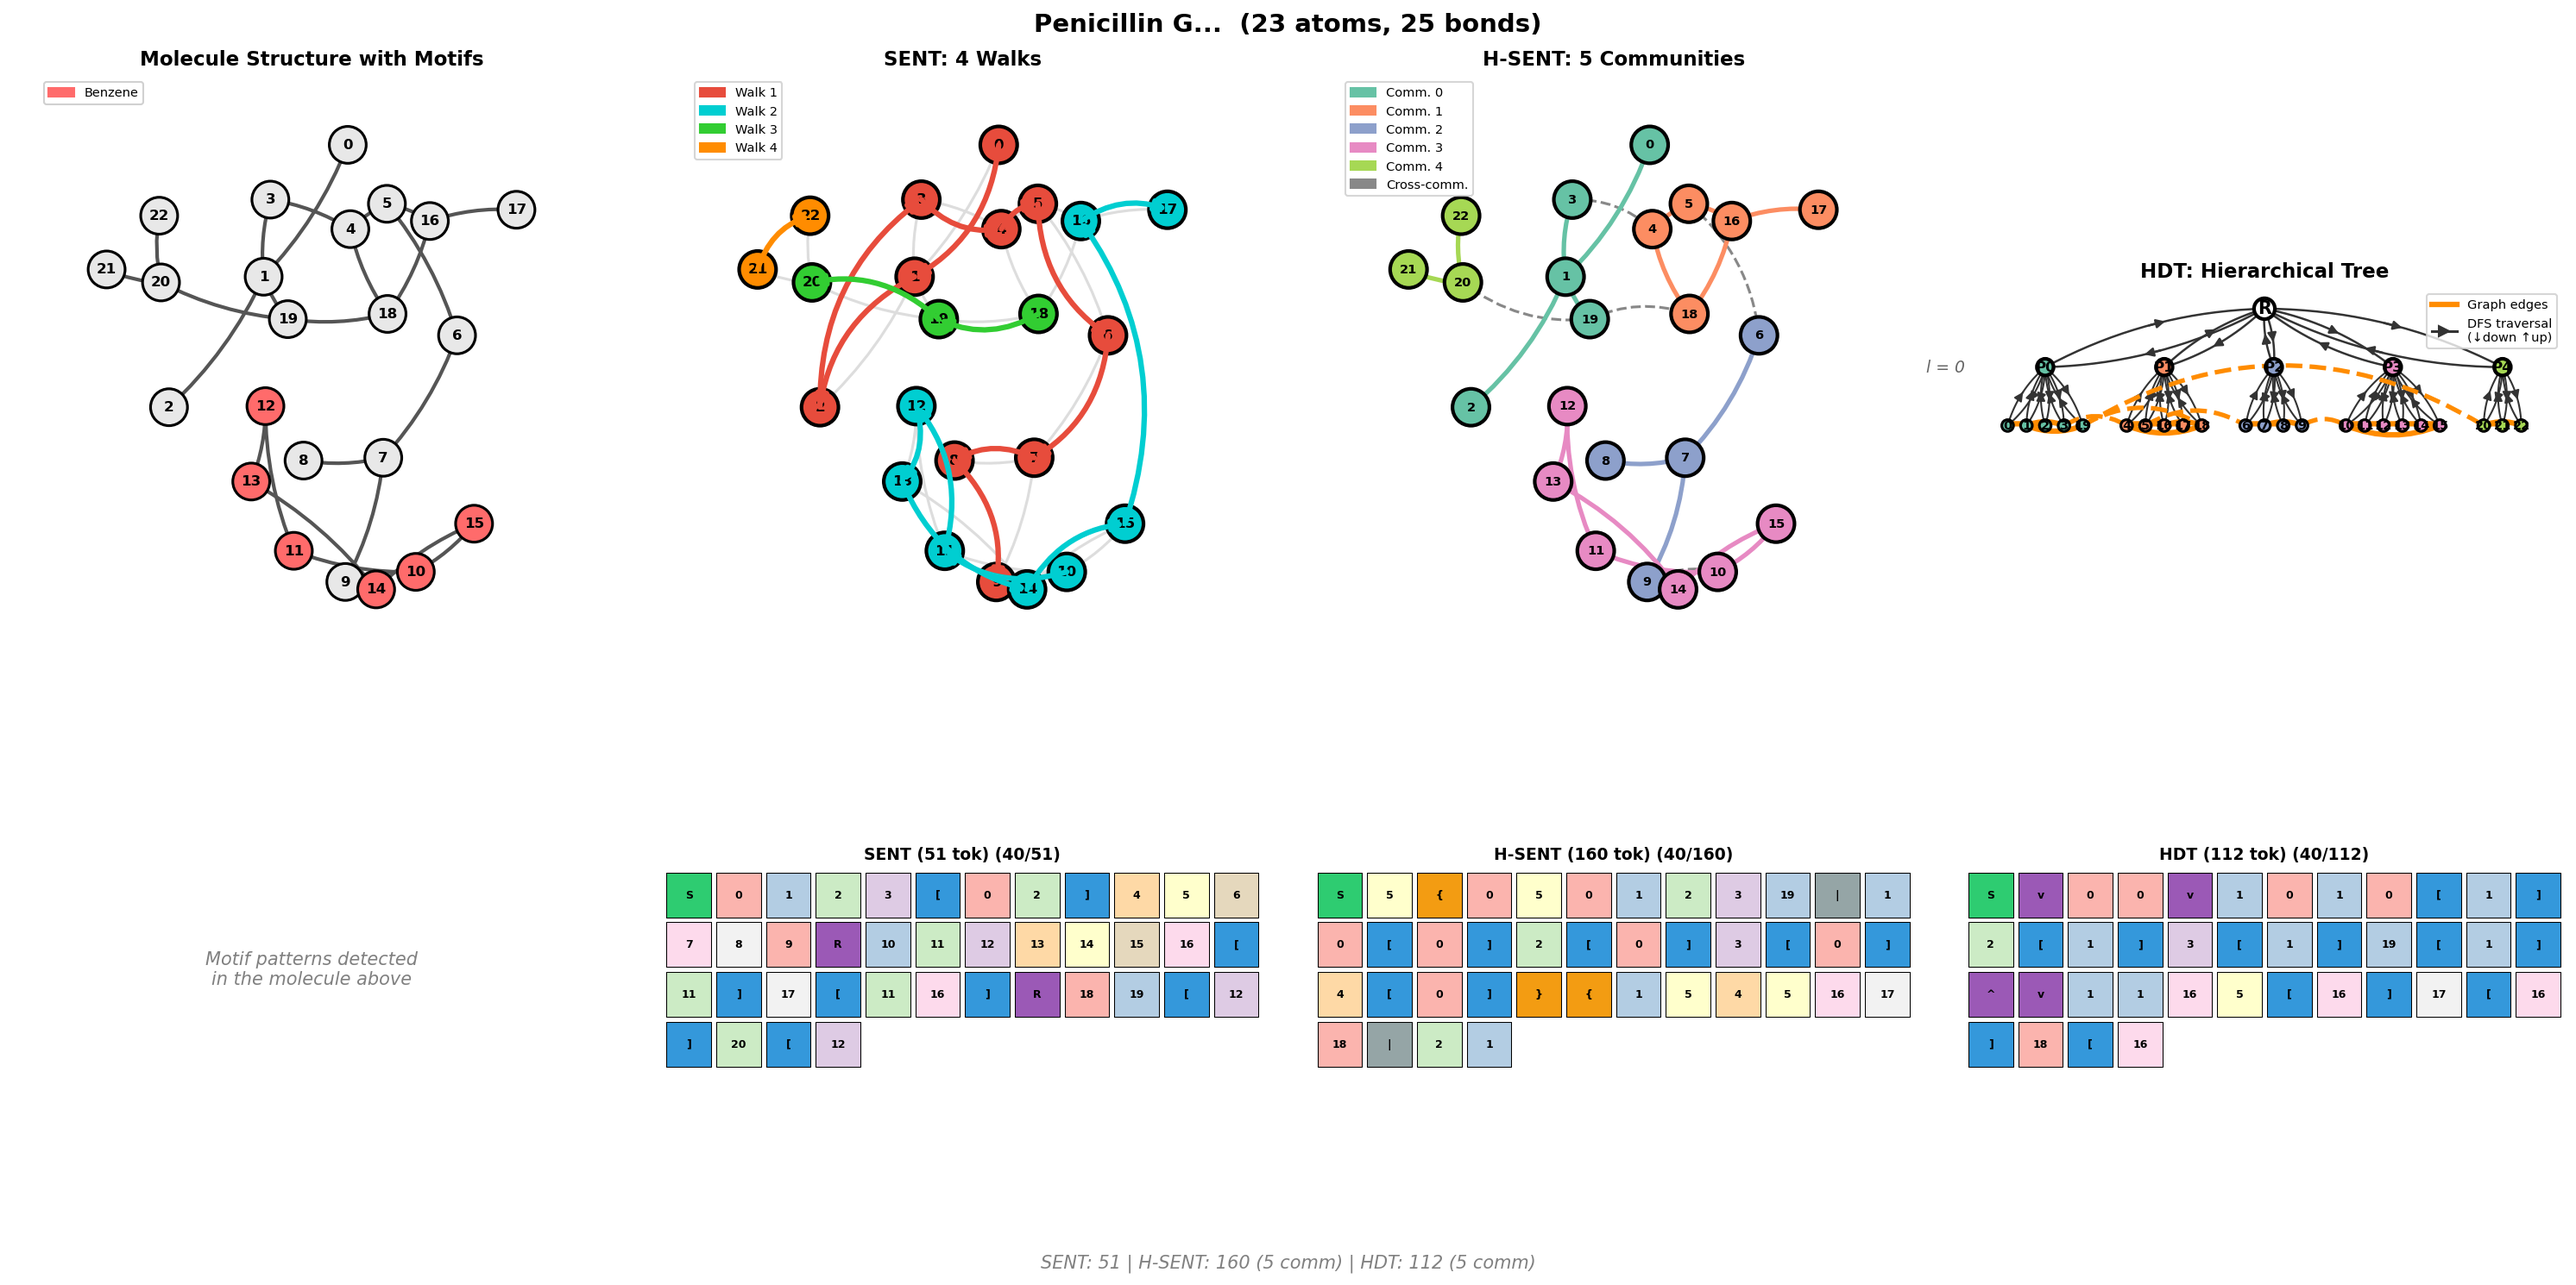
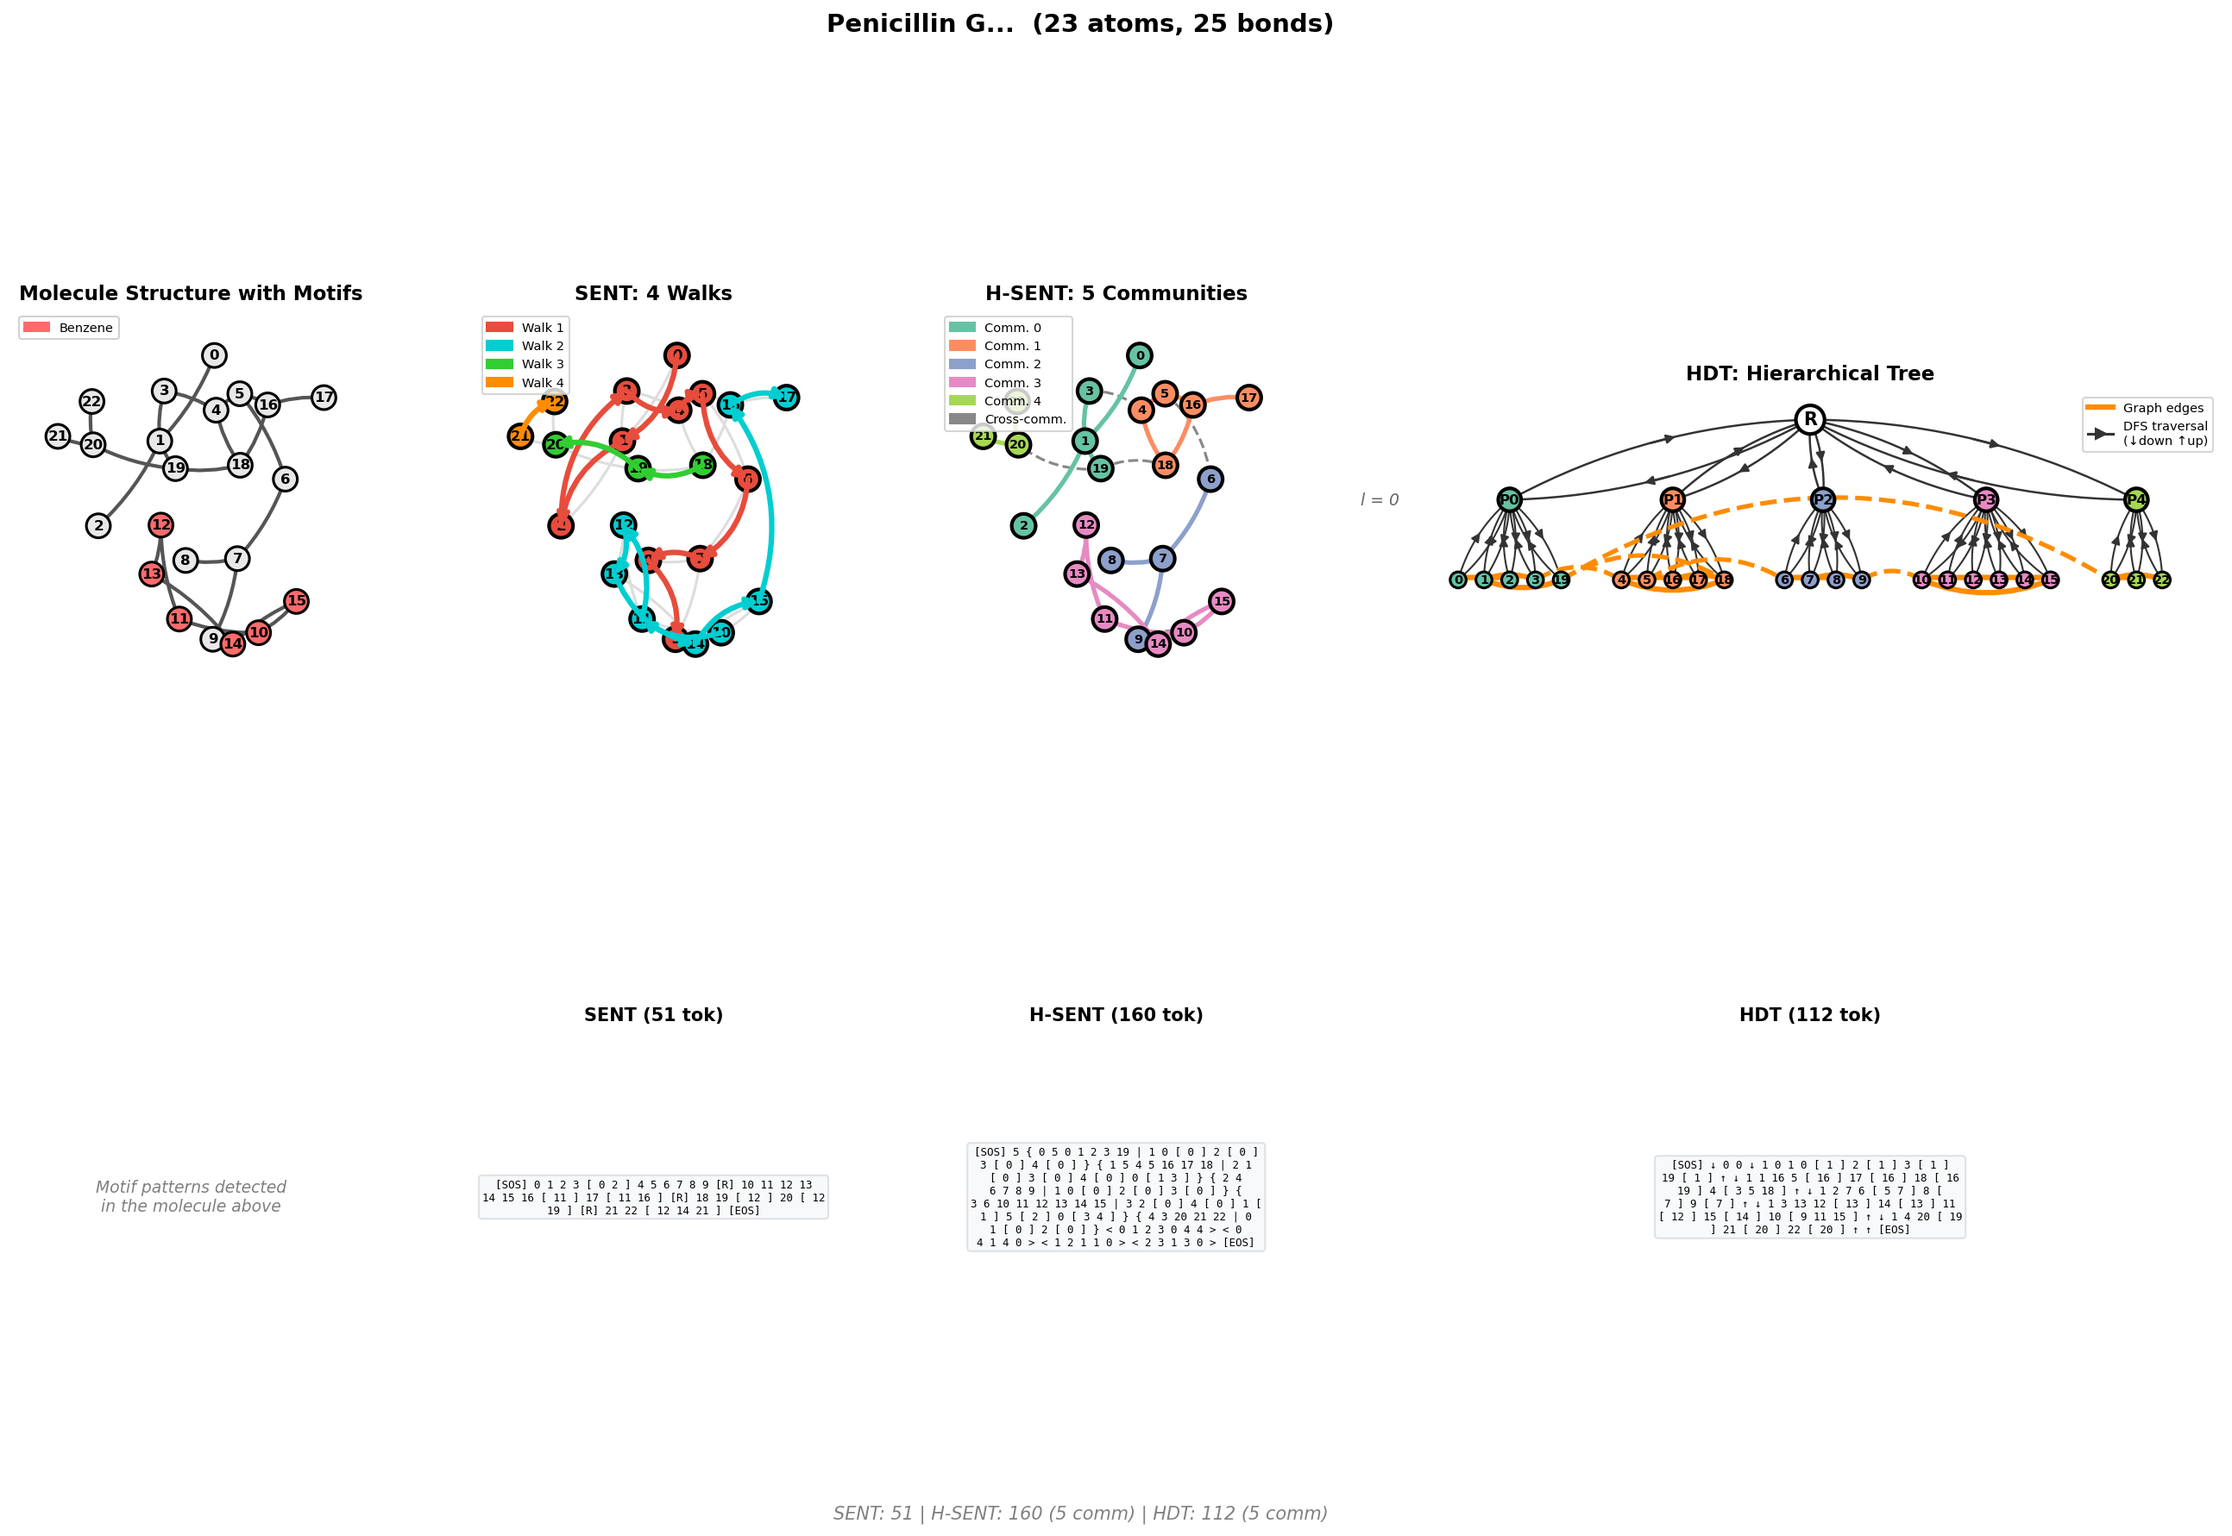
Modified documentations

diff --git a/scripts/visualize_tokenization.py b/scripts/visualize_tokenization.py
@@ -266,7 +266,7 @@ def plot_molecule_with_motifs(
     ax.set_aspect("equal")
     ax.axis("off")
 
-    # Set limits
+    # Set axis limits
     xs = [p[0] for p in pos.values()]
     ys = [p[1] for p in pos.values()]
     margin = 0.3
@@ -288,26 +288,11 @@ def plot_sent_walks(
 ) -> None:
     """Plot SENT showing walk on original molecule graph.
 
-    Uses graph isomorphism to map decoded nodes back to original positions.
-    Shows visit order numbers along the walk paths.
+    Shows visit order numbers on nodes based on walk sequence.
     """
-    # Decode the tokens to get the reconstructed graph
-    decoded = tokenizer.decode(torch.tensor(tokens))
-    decoded_G = to_networkx(decoded, to_undirected=True)
-    original_G = to_networkx(data, to_undirected=True)
-
-    # Find isomorphism mapping from decoded to original graph
-    from networkx.algorithms import isomorphism
-    GM = isomorphism.GraphMatcher(decoded_G, original_G)
-
-    # Get mapping: decoded_node -> original_node
-    decoded_to_original = {}
-    if GM.is_isomorphic():
-        decoded_to_original = GM.mapping
-    else:
-        # Fallback: try to match by degree sequence or use identity
-        for i in range(min(decoded.num_nodes, data.num_nodes)):
-            decoded_to_original[i] = i
+    # Parse tokens into walk segments (visit order)
+    # Use identity mapping since SENT preserves node count
+    decoded_to_original = {i: i for i in range(data.num_nodes)}
 
     # Parse tokens into walk segments (visit order indices)
     segments = []
@@ -325,7 +310,7 @@ def plot_sent_walks(
                 current_segment = []
         elif tok >= tokenizer.idx_offset and not inside_adj:
             visit_idx = tok - tokenizer.idx_offset
-            if visit_idx < decoded.num_nodes:
+            if visit_idx < data.num_nodes:
                 current_segment.append(visit_idx)
 
     if current_segment:
@@ -780,84 +765,69 @@ def plot_tokens(
     tokens: list[int],
     tokenizer,
     title: str,
-    max_tokens: int = 40,
+    max_tokens: int = 80,
 ) -> None:
-    """Plot token sequence as colored blocks."""
+    """Plot token sequence as flattened text with actual token symbols."""
+    # Build token name mappings
     if hasattr(tokenizer, "ENTER"):
-        token_colors = {
-            tokenizer.SOS: "#2ecc71", tokenizer.EOS: "#e74c3c",
-            tokenizer.PAD: "#bdc3c7", tokenizer.ENTER: "#9b59b6",
-            tokenizer.EXIT: "#9b59b6", tokenizer.LEDGE: "#3498db",
-            tokenizer.REDGE: "#3498db",
-        }
+        # HDT tokenizer
         token_names = {
-            tokenizer.SOS: "S", tokenizer.EOS: "E", tokenizer.PAD: "P",
-            tokenizer.ENTER: "v", tokenizer.EXIT: "^",
+            tokenizer.SOS: "[SOS]", tokenizer.EOS: "[EOS]", tokenizer.PAD: "[PAD]",
+            tokenizer.ENTER: "↓", tokenizer.EXIT: "↑",
             tokenizer.LEDGE: "[", tokenizer.REDGE: "]",
         }
         idx_offset = tokenizer.IDX_OFFSET
     elif hasattr(tokenizer, "SOS"):
-        token_colors = {
-            tokenizer.SOS: "#2ecc71", tokenizer.EOS: "#e74c3c",
-            tokenizer.PAD: "#bdc3c7", tokenizer.RESET: "#9b59b6",
-            tokenizer.LADJ: "#3498db", tokenizer.RADJ: "#3498db",
-            tokenizer.LCOM: "#f39c12", tokenizer.RCOM: "#f39c12",
-            tokenizer.LBIP: "#1abc9c", tokenizer.RBIP: "#1abc9c",
-            tokenizer.SEP: "#95a5a6",
-        }
+        # H-SENT tokenizer
         token_names = {
-            tokenizer.SOS: "S", tokenizer.EOS: "E", tokenizer.PAD: "P",
-            tokenizer.RESET: "R", tokenizer.LADJ: "[", tokenizer.RADJ: "]",
+            tokenizer.SOS: "[SOS]", tokenizer.EOS: "[EOS]", tokenizer.PAD: "[PAD]",
+            tokenizer.RESET: "[R]", tokenizer.LADJ: "[", tokenizer.RADJ: "]",
             tokenizer.LCOM: "{", tokenizer.RCOM: "}",
             tokenizer.LBIP: "<", tokenizer.RBIP: ">", tokenizer.SEP: "|",
         }
         idx_offset = tokenizer.IDX_OFFSET
     else:
-        token_colors = {
-            tokenizer.sos: "#2ecc71", tokenizer.eos: "#e74c3c",
-            tokenizer.pad: "#bdc3c7", tokenizer.reset: "#9b59b6",
-            tokenizer.ladj: "#3498db", tokenizer.radj: "#3498db",
-        }
+        # SENT tokenizer
         token_names = {
-            tokenizer.sos: "S", tokenizer.eos: "E", tokenizer.pad: "P",
-            tokenizer.reset: "R", tokenizer.ladj: "[", tokenizer.radj: "]",
+            tokenizer.sos: "[SOS]", tokenizer.eos: "[EOS]", tokenizer.pad: "[PAD]",
+            tokenizer.reset: "[R]", tokenizer.ladj: "[", tokenizer.radj: "]",
         }
         idx_offset = tokenizer.idx_offset
 
+    # Convert tokens to string symbols
     display_tokens = tokens[:max_tokens]
     truncated = len(tokens) > max_tokens
 
-    cols = min(12, len(display_tokens))
-    rows = (len(display_tokens) + cols - 1) // cols
-
-    ax.set_xlim(-0.5, cols - 0.5)
-    ax.set_ylim(-0.5, rows - 0.5)
-
-    for idx, tok in enumerate(display_tokens):
-        row = idx // cols
-        col = idx % cols
-        y = rows - 1 - row
-
-        if tok in token_colors:
-            color = token_colors[tok]
+    token_strs = []
+    for tok in display_tokens:
+        if tok in token_names:
+            token_strs.append(token_names[tok])
         elif tok >= idx_offset:
-            color = plt.cm.Pastel1((tok - idx_offset) % 9)
+            token_strs.append(str(tok - idx_offset))
         else:
-            color = "#ecf0f1"
+            token_strs.append(f"?{tok}")
 
-        rect = plt.Rectangle(
-            (col - 0.45, y - 0.45), 0.9, 0.9,
-            facecolor=color, edgecolor="black", linewidth=0.5,
-            joinstyle="round"
-        )
-        ax.add_patch(rect)
+    # Join tokens with line breaks every N tokens
+    tokens_per_line = 20
+    lines = []
+    for i in range(0, len(token_strs), tokens_per_line):
+        lines.append(" ".join(token_strs[i:i + tokens_per_line]))
+    token_text = "\n".join(lines)
+    if truncated:
+        token_text += " ..."
 
-        label = str(tok - idx_offset) if tok >= idx_offset else token_names.get(tok, "?")
-        ax.text(col, y, label, ha="center", va="center", fontsize=6, fontweight="bold")
+    # Display as multi-line text
+    ax.text(
+        0.5, 0.5, token_text,
+        ha="center", va="center",
+        fontsize=6,
+        fontfamily="monospace",
+        transform=ax.transAxes,
+        bbox=dict(boxstyle="round,pad=0.3", facecolor="#f8f9fa", edgecolor="#dee2e6"),
+    )
 
-    title_text = f"{title}" + (f" ({max_tokens}/{len(tokens)})" if truncated else "")
-    ax.set_title(title_text, fontsize=9, fontweight="bold")
-    ax.set_aspect("equal")
+    title_text = title + (f" ({max_tokens}/{len(tokens)})" if truncated else "")
+    ax.set_title(title_text, fontsize=10, fontweight="bold")
     ax.axis("off")
 
 
@@ -906,7 +876,7 @@ def compare_all_tokenizations(
     hdt_hg = hdt_tokenizer.coarsener.build_hierarchy(data)
 
     # Create figure: 4 columns x 2 rows
-    fig = plt.figure(figsize=(20, 10))
+    fig = plt.figure(figsize=(22, 12))
 
     # Title
     title = name or smiles[:35]
@@ -917,35 +887,42 @@ def compare_all_tokenizations(
         fontsize=14, fontweight="bold"
     )
 
+    # Use GridSpec for better control - HDT gets more width, tokens row is taller
+    from matplotlib.gridspec import GridSpec
+    gs = GridSpec(
+        2, 5, figure=fig,
+        height_ratios=[2, 1],
+        width_ratios=[1, 1, 1, 1.5, 0.5],  # HDT column wider
+        hspace=0.4, wspace=0.3
+    )
+
     # Row 1: Graph visualizations
-    ax1 = fig.add_subplot(2, 4, 1)
+    ax1 = fig.add_subplot(gs[0, 0])
     plot_molecule_with_motifs(ax1, data, smiles, pos)
 
-    ax2 = fig.add_subplot(2, 4, 2)
+    ax2 = fig.add_subplot(gs[0, 1])
     plot_sent_walks(ax2, data, sent_tokens, sent_tokenizer, pos)
 
-    ax3 = fig.add_subplot(2, 4, 3)
+    ax3 = fig.add_subplot(gs[0, 2])
     plot_hsent_structure(ax3, data, hsent_hg, hsent_tokens, hsent_tokenizer, pos)
 
-    ax4 = fig.add_subplot(2, 4, 4)
+    ax4 = fig.add_subplot(gs[0, 3:])  # HDT spans last 2 columns for more space
     plot_hdt_tree(ax4, data, hdt_hg, hdt_tokens, hdt_tokenizer)
 
-    # Row 2: Token sequences
-    ax5 = fig.add_subplot(2, 4, 5)
+    # Row 2: Token sequences (show all tokens for H-SENT and HDT)
+    ax5 = fig.add_subplot(gs[1, 0])
     ax5.axis("off")
     ax5.text(0.5, 0.5, "Motif patterns detected\nin the molecule above",
-             ha="center", va="center", fontsize=10, style="italic", color="gray")
+             ha="center", va="center", fontsize=9, style="italic", color="gray")
 
-    ax6 = fig.add_subplot(2, 4, 6)
+    ax6 = fig.add_subplot(gs[1, 1])
     plot_tokens(ax6, sent_tokens, sent_tokenizer, f"SENT ({len(sent_tokens)} tok)")
 
-    ax7 = fig.add_subplot(2, 4, 7)
-    plot_tokens(ax7, hsent_tokens, hsent_tokenizer, f"H-SENT ({len(hsent_tokens)} tok)")
+    ax7 = fig.add_subplot(gs[1, 2])
+    plot_tokens(ax7, hsent_tokens, hsent_tokenizer, f"H-SENT ({len(hsent_tokens)} tok)", max_tokens=500)
 
-    ax8 = fig.add_subplot(2, 4, 8)
-    plot_tokens(ax8, hdt_tokens, hdt_tokenizer, f"HDT ({len(hdt_tokens)} tok)")
-
-    plt.tight_layout()
+    ax8 = fig.add_subplot(gs[1, 3:])
+    plot_tokens(ax8, hdt_tokens, hdt_tokenizer, f"HDT ({len(hdt_tokens)} tok)", max_tokens=500)
 
     # Stats
     stats = (
